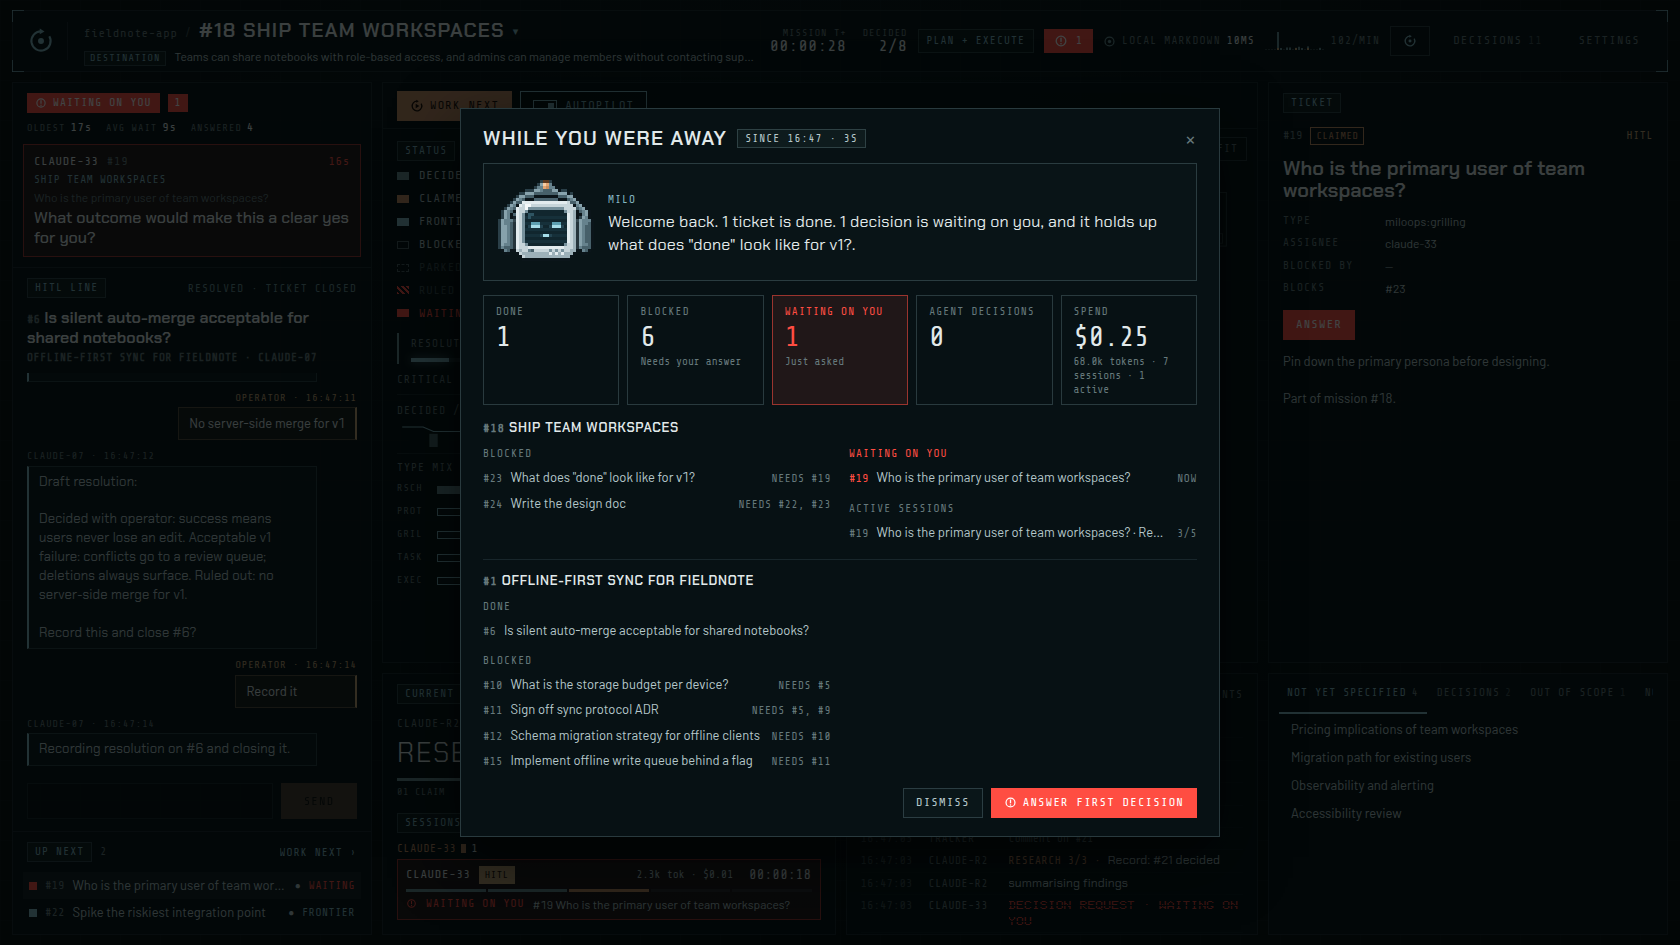
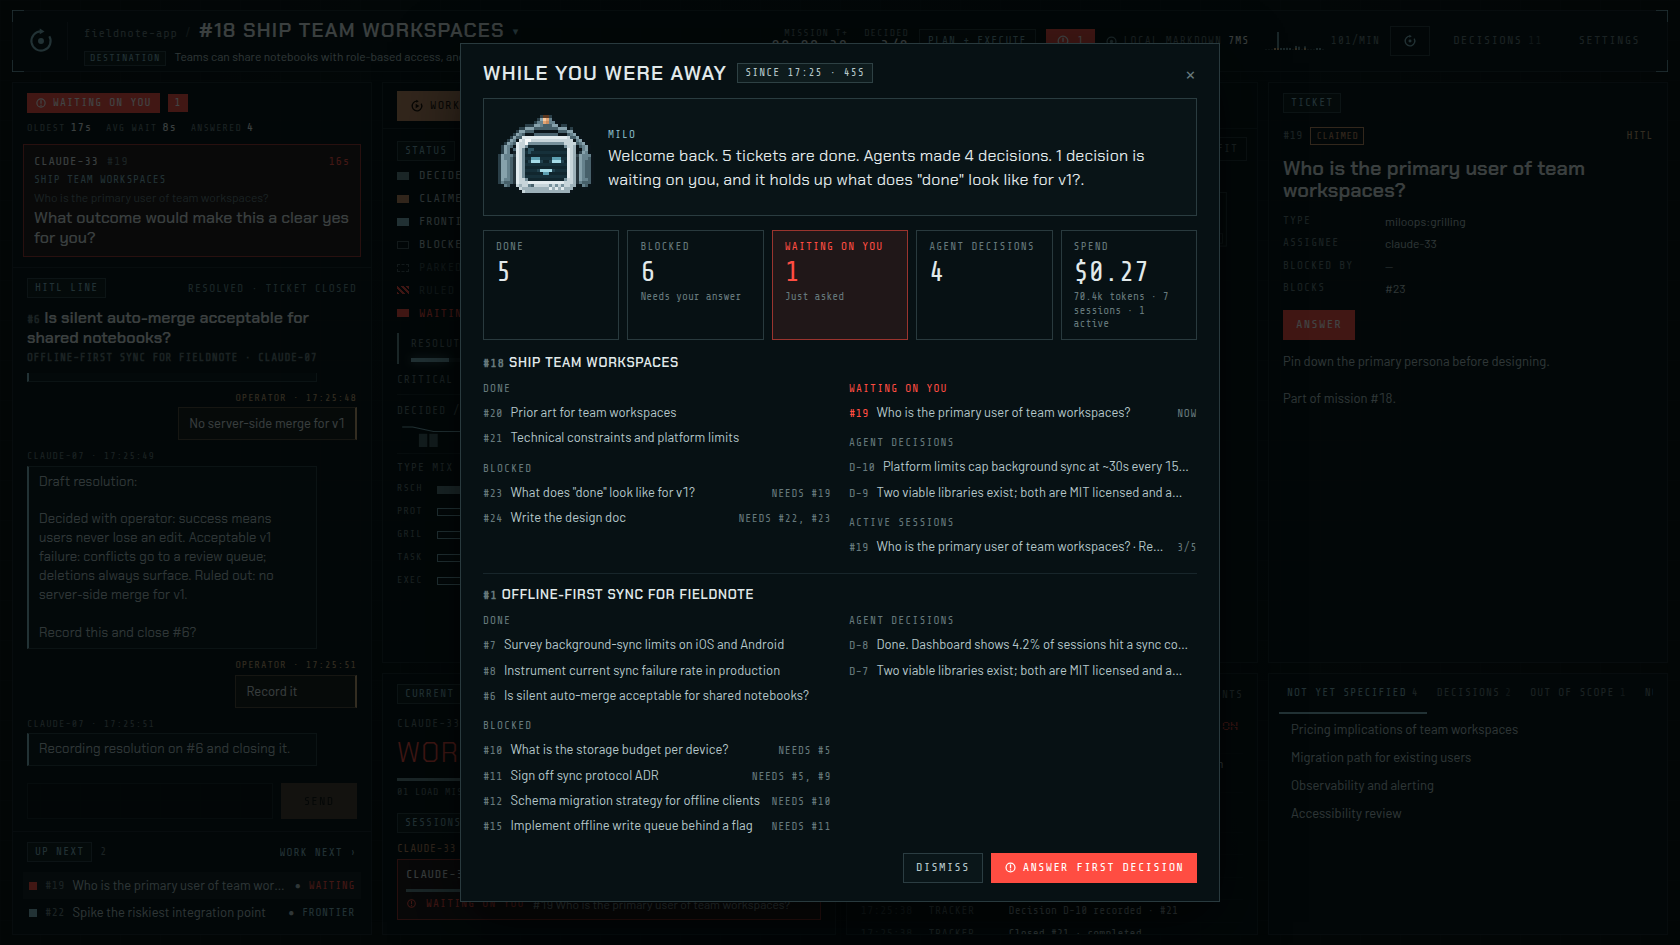
Landing: Free chip, wrapping mobile CTA command, single Online status; phone header shows the mission title; briefing shot with agent decisions

diff --git a/apps/command-center/src/styles.css b/apps/command-center/src/styles.css
@@ -462,9 +462,18 @@ code { font-family: var(--mono); font-size: var(--fs-sm); color: var(--text-hi);
 .activity-stack .log-row { grid-template-columns: 58px 74px minmax(0, 1fr); }
 
 /* ---------- Phone: one view at a time + fixed bottom tab bar ---------- */
-.bp-mobile .header { padding: var(--sp-10) var(--sp-12); gap: var(--sp-10); align-items: flex-start; border-width: 0 0 1px; }
+/* Phone: repo + actions on the first row so the mission title gets the full width below. */
+.bp-mobile .header {
+  display: grid; grid-template-columns: minmax(0, 1fr) auto; grid-template-areas: 'repo right' 'title title' 'dest dest';
+  align-items: center; column-gap: var(--sp-10); row-gap: var(--sp-4); padding: var(--sp-10) var(--sp-12); border-width: 0 0 1px;
+}
 .bp-mobile .header::before { display: none; }
-.bp-mobile .h-brand, .bp-mobile .mode-chip, .bp-mobile .tracker-chip, .bp-mobile .waiting-chip, .bp-mobile .mission-meta { display: none; }
+.bp-mobile .h-title, .bp-mobile .h-line1 { display: contents; }
+.bp-mobile .repo { grid-area: repo; overflow: hidden; text-overflow: ellipsis; }
+.bp-mobile .mission-switcher { grid-area: title; }
+.bp-mobile .h-dest { grid-area: dest; }
+.bp-mobile .h-right { grid-area: right; }
+.bp-mobile .h-brand, .bp-mobile .h-line1 .sep, .bp-mobile .mode-chip, .bp-mobile .tracker-chip, .bp-mobile .waiting-chip, .bp-mobile .mission-meta { display: none; }
 .bp-mobile .mission-title { font-size: var(--fs-title); }
 .bp-mobile .h-dest { white-space: normal; display: -webkit-box; -webkit-line-clamp: 2; -webkit-box-orient: vertical; }
 .bp-mobile .h-right .btn { height: 28px; padding: 0 var(--sp-8); }

diff --git a/apps/landing/index.html b/apps/landing/index.html
@@ -185,7 +185,6 @@
             <p class="label label--dim">Mission Intelligence &amp; Logistics Operator</p>
             <p class="section__lede">MILO sets you up, keeps an eye on every agent and briefs you on what changed while you were away. When an agent needs a decision, MILO brings it to you and waits for your answer.</p>
             <ul class="meet__list">
-              <li><span class="label">Online</span>Watching the mission.</li>
               <li><span class="label">Processing</span>Briefing agents and sorting the work.</li>
               <li><span class="label label--warn">Decision waiting</span>A call only you can make.</li>
             </ul>
@@ -428,7 +427,7 @@
             <article class="plan plan--now reveal">
               <div class="plan__head">
                 <h3>What you get</h3>
-                <span class="label label--ok">MIT license</span>
+                <span class="label label--ok">Free</span>
               </div>
               <ul>
                 <li>The full command center, on any screen</li>

diff --git a/apps/landing/src/styles.css b/apps/landing/src/styles.css
@@ -397,6 +397,7 @@ code {
 }
 
 .install__line code {
+  min-width: 0;
   font-size: clamp(17px, 1.8vw, 21px);
   color: var(--text-hi);
   overflow-x: auto;
@@ -1563,6 +1564,12 @@ code {
 @media (max-width: 560px) {
   body {
     font-size: 16px;
+  }
+
+  .install__line code {
+    text-align: left;
+    white-space: normal;
+    overflow-wrap: anywhere;
   }
 
   .hide-sm {
